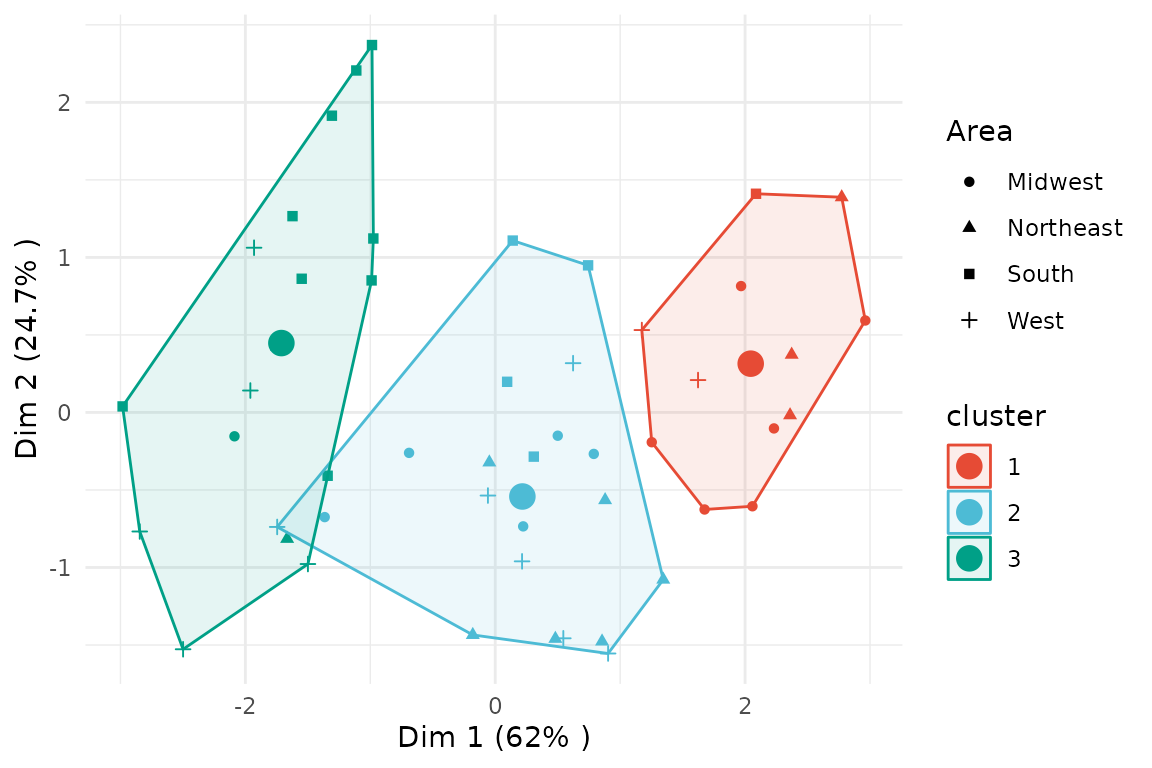
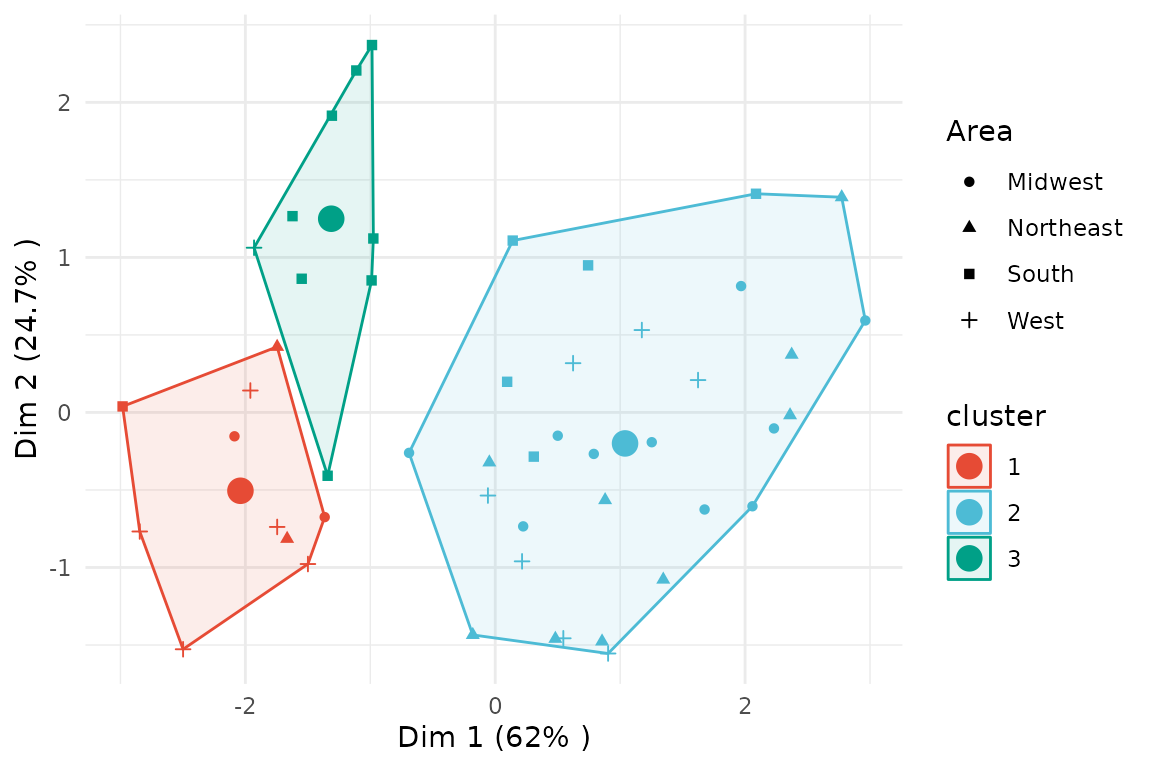
Built site for fuzzyclara: 0.1@f038475

diff --git a/articles/vignette_shiny.html b/articles/vignette_shiny.html
@@ -133,14 +133,14 @@
 <pre><code><span><span class="co">## Clustering results</span></span>
 <span><span class="co">## </span></span>
 <span><span class="co">## Medoids</span></span>
-<span><span class="co">## [1] "Oklahoma"  "Idaho"     "Tennessee"</span></span>
+<span><span class="co">## [1] "Oklahoma"  "Arizona"   "Tennessee"</span></span>
 <span><span class="co">## </span></span>
 <span><span class="co">## Clustering</span></span>
-<span><span class="co">##  [1] 3 3 2 2 3 3 2 2 3 3 2 1 2 2 1 2 2 3 1 3 2 3 1 3 2 1 1 3 1 2 3 3 3 1 2 2 2 2</span></span>
-<span><span class="co">## [39] 2 3 1 3 3 2 1 2 2 1 1 2</span></span>
+<span><span class="co">##  [1] 3 3 1 2 1 1 2 2 1 3 2 2 1 2 2 2 2 3 2 1 2 1 2 3 2 2 2 1 2 2 1 1 3 2 2 2 2 2</span></span>
+<span><span class="co">## [39] 2 3 2 3 3 2 2 2 2 2 2 2</span></span>
 <span><span class="co">## </span></span>
 <span><span class="co">## Minimum average weighted distance</span></span>
-<span><span class="co">## [1] 1.830885</span></span></code></pre>
+<span><span class="co">## [1] 1.94242</span></span></code></pre>
 </div>
 <div class="section level3">
 <h3 id="section-clustering-with-self-defined-distance-function-and-other-distance-functions">Clustering with self-defined distance function and other distance functions<a class="anchor" aria-label="anchor" href="#section-clustering-with-self-defined-distance-function-and-other-distance-functions"></a>
@@ -163,14 +163,14 @@
 <pre><code><span><span class="co">## Clustering results</span></span>
 <span><span class="co">## </span></span>
 <span><span class="co">## Medoids</span></span>
-<span><span class="co">## [1] "Oklahoma"  "Idaho"     "Tennessee"</span></span>
+<span><span class="co">## [1] "Oklahoma"  "Arizona"   "Tennessee"</span></span>
 <span><span class="co">## </span></span>
 <span><span class="co">## Clustering</span></span>
-<span><span class="co">##  [1] 3 3 2 2 3 3 2 2 3 3 2 1 2 2 1 2 2 3 1 3 2 3 1 3 2 1 1 3 1 2 3 3 3 1 2 2 2 2</span></span>
-<span><span class="co">## [39] 2 3 1 3 3 2 1 2 2 1 1 2</span></span>
+<span><span class="co">##  [1] 3 3 1 2 1 1 2 2 1 3 2 2 1 2 2 2 2 3 2 1 2 1 2 3 2 2 2 1 2 2 1 1 3 2 2 2 2 2</span></span>
+<span><span class="co">## [39] 2 3 2 3 3 2 2 2 2 2 2 2</span></span>
 <span><span class="co">## </span></span>
 <span><span class="co">## Minimum average weighted distance</span></span>
-<span><span class="co">## [1] 1.830885</span></span></code></pre>
+<span><span class="co">## [1] 1.94242</span></span></code></pre>
 <p>You can also use other distance functions from the proxy package like Gower, Manhattan etc. In order to specify arguments of the distance metric (e. g. <em>p</em> for Minkowski distance), you can use a self-defined distance function.</p>
 <div class="sourceCode" id="section-cb8"><pre class="downlit sourceCode r">
 <code class="sourceCode R"><span><span class="va">cc_manh</span> <span class="op">&lt;-</span> <span class="fu"><a href="../reference/fuzzyclara.html">fuzzyclara</a></span><span class="op">(</span>data        <span class="op">=</span> <span class="va">USArrests</span>,</span>
@@ -233,7 +233,7 @@
 <span>                       verbose         <span class="op">=</span> <span class="fl">0</span><span class="op">)</span></span>
 <span><span class="va">cc_number</span></span></code></pre></div>
 <p><img src="vignette_shiny_files/figure-html/optimal%20number%20clusters-1.png" width="576"></p>
-<iframe data-deferred-src="app5f17dc2c74edcaa6b7c2384b3b61cb96/?w=&amp;__subapp__=1" width="600" height="800" class="shiny-frame shiny-frame-deferred"></iframe>
+<iframe data-deferred-src="app43cc8c436d0f2f33a7ce88af5d522dfa/?w=&amp;__subapp__=1" width="600" height="800" class="shiny-frame shiny-frame-deferred"></iframe>
 </div>
 </div>
 <div class="section level2">
@@ -265,7 +265,7 @@
 <div class="sourceCode" id="section-cb14"><pre class="downlit sourceCode r">
 <code class="sourceCode R"><span><span class="fu"><a href="https://rdrr.io/r/graphics/plot.default.html" class="external-link">plot</a></span><span class="op">(</span>x <span class="op">=</span> <span class="va">cc_fuzzy</span>, data <span class="op">=</span> <span class="va">USArrests_enriched</span>, variable <span class="op">=</span> <span class="st">"Assault"</span><span class="op">)</span> </span></code></pre></div>
 <p><img src="vignette_shiny_files/figure-html/unnamed-chunk-1-1.png" width="576"></p>
-<iframe data-deferred-src="app1dda65db1b88cddf9998218a5163911b/?w=&amp;__subapp__=1" width="600" height="800" class="shiny-frame shiny-frame-deferred"></iframe>
+<iframe data-deferred-src="appc9ee34e27f5ae3d08f80638ac17cc563/?w=&amp;__subapp__=1" width="600" height="800" class="shiny-frame shiny-frame-deferred"></iframe>
 </div>
 <div class="section level3">
 <h3 id="section-barplot">Barplot<a class="anchor" aria-label="anchor" href="#section-barplot"></a>
@@ -273,7 +273,7 @@
 <div class="sourceCode" id="section-cb15"><pre class="downlit sourceCode r">
 <code class="sourceCode R"><span><span class="fu"><a href="https://rdrr.io/r/graphics/plot.default.html" class="external-link">plot</a></span><span class="op">(</span>x <span class="op">=</span> <span class="va">cc_fuzzy</span>, data <span class="op">=</span> <span class="va">USArrests_enriched</span>, variable <span class="op">=</span> <span class="st">"Area"</span><span class="op">)</span></span></code></pre></div>
 <p><img src="vignette_shiny_files/figure-html/unnamed-chunk-3-1.png" width="576"></p>
-<iframe data-deferred-src="appfc1000cb04459c7d7908d052a3eb5b50/?w=&amp;__subapp__=1" width="600" height="800" class="shiny-frame shiny-frame-deferred"></iframe>
+<iframe data-deferred-src="app0da2fd0e3b48e986bb88b6afb8c6f3b2/?w=&amp;__subapp__=1" width="600" height="800" class="shiny-frame shiny-frame-deferred"></iframe>
 </div>
 <div class="section level3">
 <h3 id="section-wordcloud">Wordcloud<a class="anchor" aria-label="anchor" href="#section-wordcloud"></a>
@@ -291,7 +291,7 @@
 <span>     x_var <span class="op">=</span> <span class="st">"Murder"</span>, y_var <span class="op">=</span> <span class="st">"Assault"</span><span class="op">)</span></span></code></pre></div>
 <pre><code><span><span class="co">## `geom_smooth()` using formula 'y ~ x'</span></span></code></pre>
 <p><img src="vignette_shiny_files/figure-html/unnamed-chunk-6-1.png" width="576"></p>
-<iframe data-deferred-src="app0b926b70d524e346eb2b4aa0d68caedd/?w=&amp;__subapp__=1" width="600" height="800" class="shiny-frame shiny-frame-deferred"></iframe>
+<iframe data-deferred-src="app142ceaff298adbe81fe48d46c4af99d3/?w=&amp;__subapp__=1" width="600" height="800" class="shiny-frame shiny-frame-deferred"></iframe>
 <div class="sourceCode" id="section-cb19"><pre class="downlit sourceCode r">
 <code class="sourceCode R"><span><span class="fu"><a href="https://rdrr.io/r/graphics/plot.default.html" class="external-link">plot</a></span><span class="op">(</span>x <span class="op">=</span> <span class="va">cc_fuzzy</span>, data <span class="op">=</span> <span class="va">USArrests_enriched</span>, type <span class="op">=</span> <span class="st">"scatterplot"</span>,</span>
 <span>     x_var <span class="op">=</span> <span class="st">"Murder"</span>, y_var <span class="op">=</span> <span class="st">"Assault"</span>, </span>
@@ -305,7 +305,7 @@
 <code class="sourceCode R"><span><span class="fu"><a href="https://rdrr.io/r/graphics/plot.default.html" class="external-link">plot</a></span><span class="op">(</span>x <span class="op">=</span> <span class="va">cc_fuzzy</span>, data <span class="op">=</span> <span class="va">USArrests_enriched</span>, type <span class="op">=</span> <span class="st">"pca"</span>,</span>
 <span>     group_by <span class="op">=</span> <span class="st">"Area"</span><span class="op">)</span></span></code></pre></div>
 <p><img src="vignette_shiny_files/figure-html/unnamed-chunk-9-1.png" width="576"></p>
-<iframe data-deferred-src="app86c7c8f7846e06189fc2f181472181b0/?w=&amp;__subapp__=1" width="600" height="800" class="shiny-frame shiny-frame-deferred"></iframe>
+<iframe data-deferred-src="app9aec20da6e7be06f835ad1d7244a5ef2/?w=&amp;__subapp__=1" width="600" height="800" class="shiny-frame shiny-frame-deferred"></iframe>
 <div class="sourceCode" id="section-cb21"><pre class="downlit sourceCode r">
 <code class="sourceCode R"><span><span class="fu"><a href="https://rdrr.io/r/graphics/plot.default.html" class="external-link">plot</a></span><span class="op">(</span>x <span class="op">=</span> <span class="va">cc_fuzzy</span>, data <span class="op">=</span> <span class="va">USArrests_enriched</span>, type <span class="op">=</span> <span class="st">"pca"</span>,</span>
 <span>     focus <span class="op">=</span> <span class="cn">TRUE</span><span class="op">)</span></span></code></pre></div>
@@ -317,9 +317,9 @@
 <div class="sourceCode" id="section-cb22"><pre class="downlit sourceCode r">
 <code class="sourceCode R"><span><span class="fu"><a href="https://rdrr.io/r/graphics/plot.default.html" class="external-link">plot</a></span><span class="op">(</span>x <span class="op">=</span> <span class="va">cc_fuzzy</span>, data <span class="op">=</span> <span class="va">USArrests</span>, type <span class="op">=</span> <span class="st">"silhouette"</span><span class="op">)</span></span></code></pre></div>
 <pre><code><span><span class="co">##   cluster size ave.sil.width</span></span>
-<span><span class="co">## 1       1   12          0.47</span></span>
-<span><span class="co">## 2       2   21          0.21</span></span>
-<span><span class="co">## 3       3   17          0.24</span></span></code></pre>
+<span><span class="co">## 1       1   10          0.38</span></span>
+<span><span class="co">## 2       2   31          0.38</span></span>
+<span><span class="co">## 3       3    9          0.24</span></span></code></pre>
 <p><img src="vignette_shiny_files/figure-html/unnamed-chunk-12-1.png" width="576"></p>
 </div>
 </div>

diff --git a/articles/main_functionality.html b/articles/main_functionality.html
@@ -132,14 +132,14 @@
 <pre><code><span><span class="co">## Clustering results</span></span>
 <span><span class="co">## </span></span>
 <span><span class="co">## Medoids</span></span>
-<span><span class="co">## [1] "Oklahoma"  "Idaho"     "Tennessee"</span></span>
+<span><span class="co">## [1] "Oklahoma"  "Arizona"   "Tennessee"</span></span>
 <span><span class="co">## </span></span>
 <span><span class="co">## Clustering</span></span>
-<span><span class="co">##  [1] 3 3 2 2 3 3 2 2 3 3 2 1 2 2 1 2 2 3 1 3 2 3 1 3 2 1 1 3 1 2 3 3 3 1 2 2 2 2</span></span>
-<span><span class="co">## [39] 2 3 1 3 3 2 1 2 2 1 1 2</span></span>
+<span><span class="co">##  [1] 3 3 1 2 1 1 2 2 1 3 2 2 1 2 2 2 2 3 2 1 2 1 2 3 2 2 2 1 2 2 1 1 3 2 2 2 2 2</span></span>
+<span><span class="co">## [39] 2 3 2 3 3 2 2 2 2 2 2 2</span></span>
 <span><span class="co">## </span></span>
 <span><span class="co">## Minimum average weighted distance</span></span>
-<span><span class="co">## [1] 1.830885</span></span></code></pre>
+<span><span class="co">## [1] 1.94242</span></span></code></pre>
 </div>
 <div class="section level3">
 <h3 id="clustering-with-self-defined-distance-function-and-other-distance-functions">Clustering with self-defined distance function and other distance functions<a class="anchor" aria-label="anchor" href="#clustering-with-self-defined-distance-function-and-other-distance-functions"></a>
@@ -162,14 +162,14 @@
 <pre><code><span><span class="co">## Clustering results</span></span>
 <span><span class="co">## </span></span>
 <span><span class="co">## Medoids</span></span>
-<span><span class="co">## [1] "Oklahoma"  "Idaho"     "Tennessee"</span></span>
+<span><span class="co">## [1] "Oklahoma"  "Arizona"   "Tennessee"</span></span>
 <span><span class="co">## </span></span>
 <span><span class="co">## Clustering</span></span>
-<span><span class="co">##  [1] 3 3 2 2 3 3 2 2 3 3 2 1 2 2 1 2 2 3 1 3 2 3 1 3 2 1 1 3 1 2 3 3 3 1 2 2 2 2</span></span>
-<span><span class="co">## [39] 2 3 1 3 3 2 1 2 2 1 1 2</span></span>
+<span><span class="co">##  [1] 3 3 1 2 1 1 2 2 1 3 2 2 1 2 2 2 2 3 2 1 2 1 2 3 2 2 2 1 2 2 1 1 3 2 2 2 2 2</span></span>
+<span><span class="co">## [39] 2 3 2 3 3 2 2 2 2 2 2 2</span></span>
 <span><span class="co">## </span></span>
 <span><span class="co">## Minimum average weighted distance</span></span>
-<span><span class="co">## [1] 1.830885</span></span></code></pre>
+<span><span class="co">## [1] 1.94242</span></span></code></pre>
 <p>You can also use other distance functions from the proxy package like Gower, Manhattan etc. In order to specify arguments of the distance metric (e. g. <em>p</em> for Minkowski distance), you can use a self-defined distance function.</p>
 <div class="sourceCode" id="cb8"><pre class="downlit sourceCode r">
 <code class="sourceCode R"><span><span class="va">cc_manh</span> <span class="op">&lt;-</span> <span class="fu"><a href="../reference/fuzzyclara.html">fuzzyclara</a></span><span class="op">(</span>data        <span class="op">=</span> <span class="va">USArrests</span>,</span>
@@ -343,20 +343,27 @@
 <div class="sourceCode" id="cb29"><pre class="downlit sourceCode r">
 <code class="sourceCode R"><span><span class="fu"><a href="https://rdrr.io/r/graphics/plot.default.html" class="external-link">plot</a></span><span class="op">(</span>x <span class="op">=</span> <span class="va">cc_fuzzy</span>, data <span class="op">=</span> <span class="va">USArrests_enriched</span>, type <span class="op">=</span> <span class="st">"scatterplot"</span>,</span>
 <span>     x_var <span class="op">=</span> <span class="st">"Murder"</span>, y_var <span class="op">=</span> <span class="st">"Assault"</span>, confidence_threshold <span class="op">=</span> <span class="fl">0.5</span><span class="op">)</span></span></code></pre></div>
+<pre><code><span><span class="co">## Warning in qt((1 - level)/2, df): NaNs produced</span></span></code></pre>
+<pre><code><span><span class="co">## Warning in max(ids, na.rm = TRUE): no non-missing arguments to max; returning</span></span>
+<span><span class="co">## -Inf</span></span></code></pre>
 <p><img src="main_functionality_files/figure-html/unnamed-chunk-10-2.png" width="576"></p>
-<div class="sourceCode" id="cb30"><pre class="downlit sourceCode r">
+<div class="sourceCode" id="cb32"><pre class="downlit sourceCode r">
 <code class="sourceCode R"><span><span class="fu"><a href="https://rdrr.io/r/graphics/plot.default.html" class="external-link">plot</a></span><span class="op">(</span>x <span class="op">=</span> <span class="va">cc_fuzzy</span>, data <span class="op">=</span> <span class="va">USArrests_enriched</span>, type <span class="op">=</span> <span class="st">"scatterplot"</span>,</span>
 <span>     x_var <span class="op">=</span> <span class="st">"Murder"</span>, y_var <span class="op">=</span> <span class="st">"Assault"</span>, confidence_threshold <span class="op">=</span> <span class="fl">0.5</span>, plot_all_fuzzy <span class="op">=</span> <span class="cn">TRUE</span><span class="op">)</span></span></code></pre></div>
+<pre><code><span><span class="co">## Warning in qt((1 - level)/2, df): NaNs produced</span></span>
+<span></span>
+<span><span class="co">## Warning in qt((1 - level)/2, df): no non-missing arguments to max; returning</span></span>
+<span><span class="co">## -Inf</span></span></code></pre>
 <p><img src="main_functionality_files/figure-html/unnamed-chunk-10-3.png" width="576"></p>
-<div class="sourceCode" id="cb31"><pre class="downlit sourceCode r">
+<div class="sourceCode" id="cb34"><pre class="downlit sourceCode r">
 <code class="sourceCode R"><span><span class="fu"><a href="https://rdrr.io/r/graphics/plot.default.html" class="external-link">plot</a></span><span class="op">(</span>x <span class="op">=</span> <span class="va">cc_fuzzy</span>, data <span class="op">=</span> <span class="va">USArrests_enriched</span>, type <span class="op">=</span> <span class="st">"pca"</span>,</span>
 <span>     group_by <span class="op">=</span> <span class="st">"Area"</span>, confidence_threshold <span class="op">=</span> <span class="fl">0</span><span class="op">)</span></span></code></pre></div>
 <p><img src="main_functionality_files/figure-html/unnamed-chunk-11-1.png" width="576"></p>
-<div class="sourceCode" id="cb32"><pre class="downlit sourceCode r">
+<div class="sourceCode" id="cb35"><pre class="downlit sourceCode r">
 <code class="sourceCode R"><span><span class="fu"><a href="https://rdrr.io/r/graphics/plot.default.html" class="external-link">plot</a></span><span class="op">(</span>x <span class="op">=</span> <span class="va">cc_fuzzy</span>, data <span class="op">=</span> <span class="va">USArrests_enriched</span>, type <span class="op">=</span> <span class="st">"pca"</span>,</span>
 <span>     group_by <span class="op">=</span> <span class="st">"Area"</span>, confidence_threshold <span class="op">=</span> <span class="fl">0.5</span><span class="op">)</span></span></code></pre></div>
 <p><img src="main_functionality_files/figure-html/unnamed-chunk-11-2.png" width="576"></p>
-<div class="sourceCode" id="cb33"><pre class="downlit sourceCode r">
+<div class="sourceCode" id="cb36"><pre class="downlit sourceCode r">
 <code class="sourceCode R"><span><span class="fu"><a href="https://rdrr.io/r/graphics/plot.default.html" class="external-link">plot</a></span><span class="op">(</span>x <span class="op">=</span> <span class="va">cc_fuzzy</span>, data <span class="op">=</span> <span class="va">USArrests_enriched</span>, type <span class="op">=</span> <span class="st">"pca"</span>,</span>
 <span>     group_by <span class="op">=</span> <span class="st">"Area"</span>, confidence_threshold <span class="op">=</span> <span class="fl">0.5</span>, plot_all_fuzzy <span class="op">=</span> <span class="cn">TRUE</span><span class="op">)</span></span></code></pre></div>
 <p><img src="main_functionality_files/figure-html/unnamed-chunk-11-3.png" width="576"></p>

diff --git a/reference/clustering_sample.html b/reference/clustering_sample.html
@@ -72,6 +72,7 @@ a self-defined distance function.</p>
 <span>  metric <span class="op">=</span> <span class="st">"euclidean"</span>,</span>
 <span>  sample_size <span class="op">=</span> <span class="cn">NULL</span>,</span>
 <span>  type <span class="op">=</span> <span class="st">"hard"</span>,</span>
+<span>  seed <span class="op">=</span> <span class="fl">1234</span>,</span>
 <span>  m <span class="op">=</span> <span class="fl">1.5</span>,</span>
 <span>  verbose <span class="op">=</span> <span class="fl">1</span>,</span>
 <span>  verbose_toLogFile <span class="op">=</span> <span class="cn">FALSE</span>,</span>
@@ -113,6 +114,10 @@ full details.</p></dd>
 <dt>type</dt>
 <dd><p>One of <code>c("hard","fuzzy")</code>, specifying the type of
 clustering to be performed.</p></dd>
+
+
+<dt>seed</dt>
+<dd><p>Random number seed. Defaults to 1234.</p></dd>
 
 
 <dt>m</dt>
